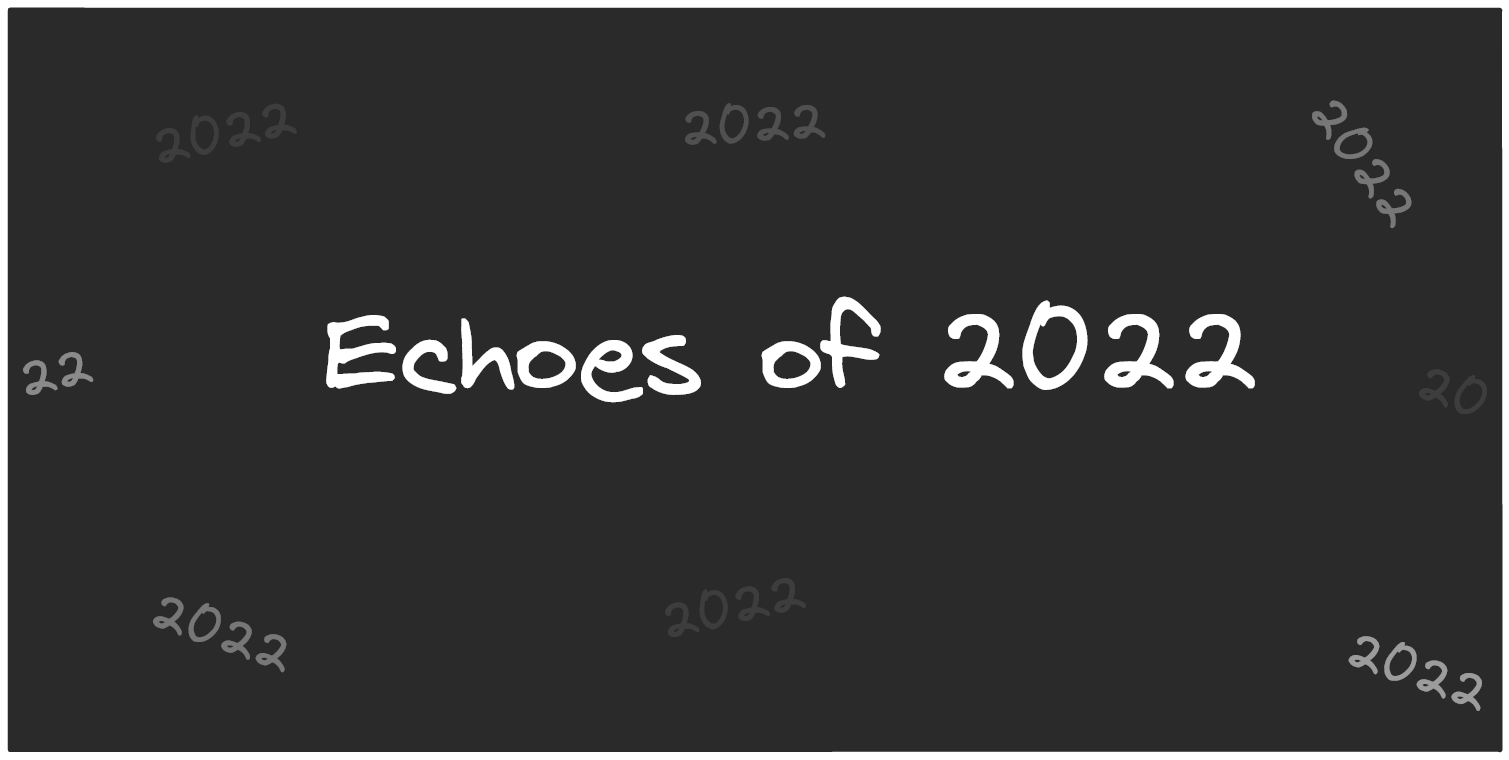
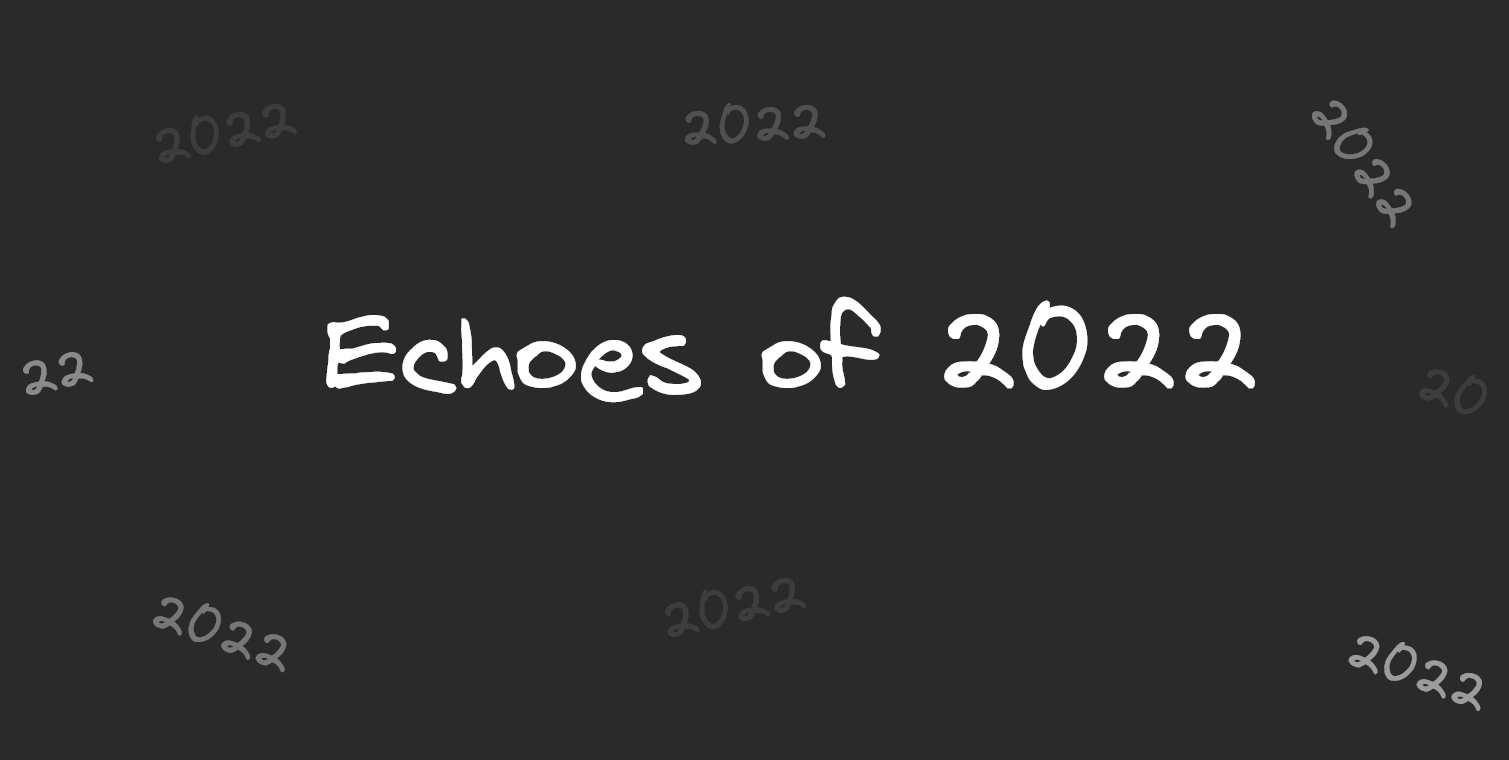
finalize, then open pr

Changed region(s): [[0.0, 0.0, 1.0, 1.0]]

diff --git a/src/pages/blog/echoes-of-2022.md b/src/pages/blog/echoes-of-2022.md
@@ -1,10 +1,10 @@
 ---
 title: Echoes of 2022
 description: Year end's post, as usual.
-publishDate: 2022-10-28T17:10:14.982Z
-image: /assets/blog/are-you-healing/are-you-healing.png
-imageAlt: An image containing a stick figure with lots of debuffs, trying to heal itself. It heals itself for 0.
-imageCaption: An image containing a stick figure with lots of debuffs, trying to heal itself. It heals itself for 0.
+publishDate: 2022-12-29T00:15:20.841Z
+image: /assets/blog/echoes-of-2022/blogpost-background.png
+imageAlt: An image with the text "Echoes of 2022" at the center, with other faded "2022" words all over the place.
+imageCaption: An image with the text "Echoes of 2022" at the center, with other faded "2022" words all over the place.
 tags: life
 visibility: public
 layout: '../../layouts/BlogPost.astro'
@@ -14,7 +14,7 @@ Here we are again, at the edge of the year. The other end. It felt like I just s
 
 This time, last year, I was still on a career break. I remember the moment where I got up and started playing around 8-9am and I had this one friend in-game who was also online. They asked me whether I would be going to work or not, but I told them that I was currently unemployed and was on a career break. At that time, it was still hard for me to continuously get motivated to be productive on a daily basis.
 
-<!-- Insert ffxiv Mare Lamentorum, Etheirys screenshot -->
+![Mare Lamentorum from Final Fantasy XIV.](/assets/blog/echoes-of-2022/ffxiv_12072021_183147_148.png)
 
 It might sound a bit cheesy, but FFXIV did help me get through that phase. I met and played together with new friends, which now looking back, I think it was shocking because I thought I could never open up to a new gaming circle anymore. But, I did at the end. On top of that, the latest expansion, [Endwalker](https://na.finalfantasyxiv.com/endwalker), was a fitting game for me to play last year. The theme of the expansion was ranging from despair to finding the meaning of life, crafted and wrapped beautifully.
 
@@ -32,7 +32,7 @@ My wife and I also visited our psychologist (again) around the midyear. Same the
 2. Marriage is merging two families with different cultures and habits. In my family that when there were "too many foods", my mother would scold whoever brought it, so I learned to buy food little by little whenever possible. My wife's family, on the other hand, is the opposite. When I bought some food (which I thought would be sufficient), turned out it didn't. Our psychologist explained this beautifully to us that fate is very unexpected: my wife, whose family is very flexible, got married to me, whose family is rigid, so that she could learn about structure whereas I could learn about flexibility.
 
 :::
-For readers who love their mothers and don't have a chance to tell them anymore, I'm sorry, I really am. The following paragraphs might really hurt you. If you wish to skip them, feel free to jump to the next section heading.
+For readers who love their mothers and don't have a chance to tell them anymore, I'm sorry, I really am. The following paragraphs might really hurt you. If you wish to skip them, feel free to jump to the next section.
 :::
 
 Overthinking was also my theme of the last year. This year, I think I managed to do it better because I simply removed the variables which caused me to overthink. I used to feel guilty for my mother's feelings. This is because, you know, people in my religion say that [heaven is below mothers' feet](https://www.abuaminaelias.com/dailyhadithonline/2012/07/19/jannah-is-under-her-feet/), which is sometimes "misused" as a weapon for mothers to defend themselves. So, I _thought_ if my mother was angry, then I would not go to paradise. But then, she would most of the times aggressive with people who didn't share the same thought as hers. Does that mean I will never be able to go to paradise? I guess. Maybe, it's my fate to go to hell.
